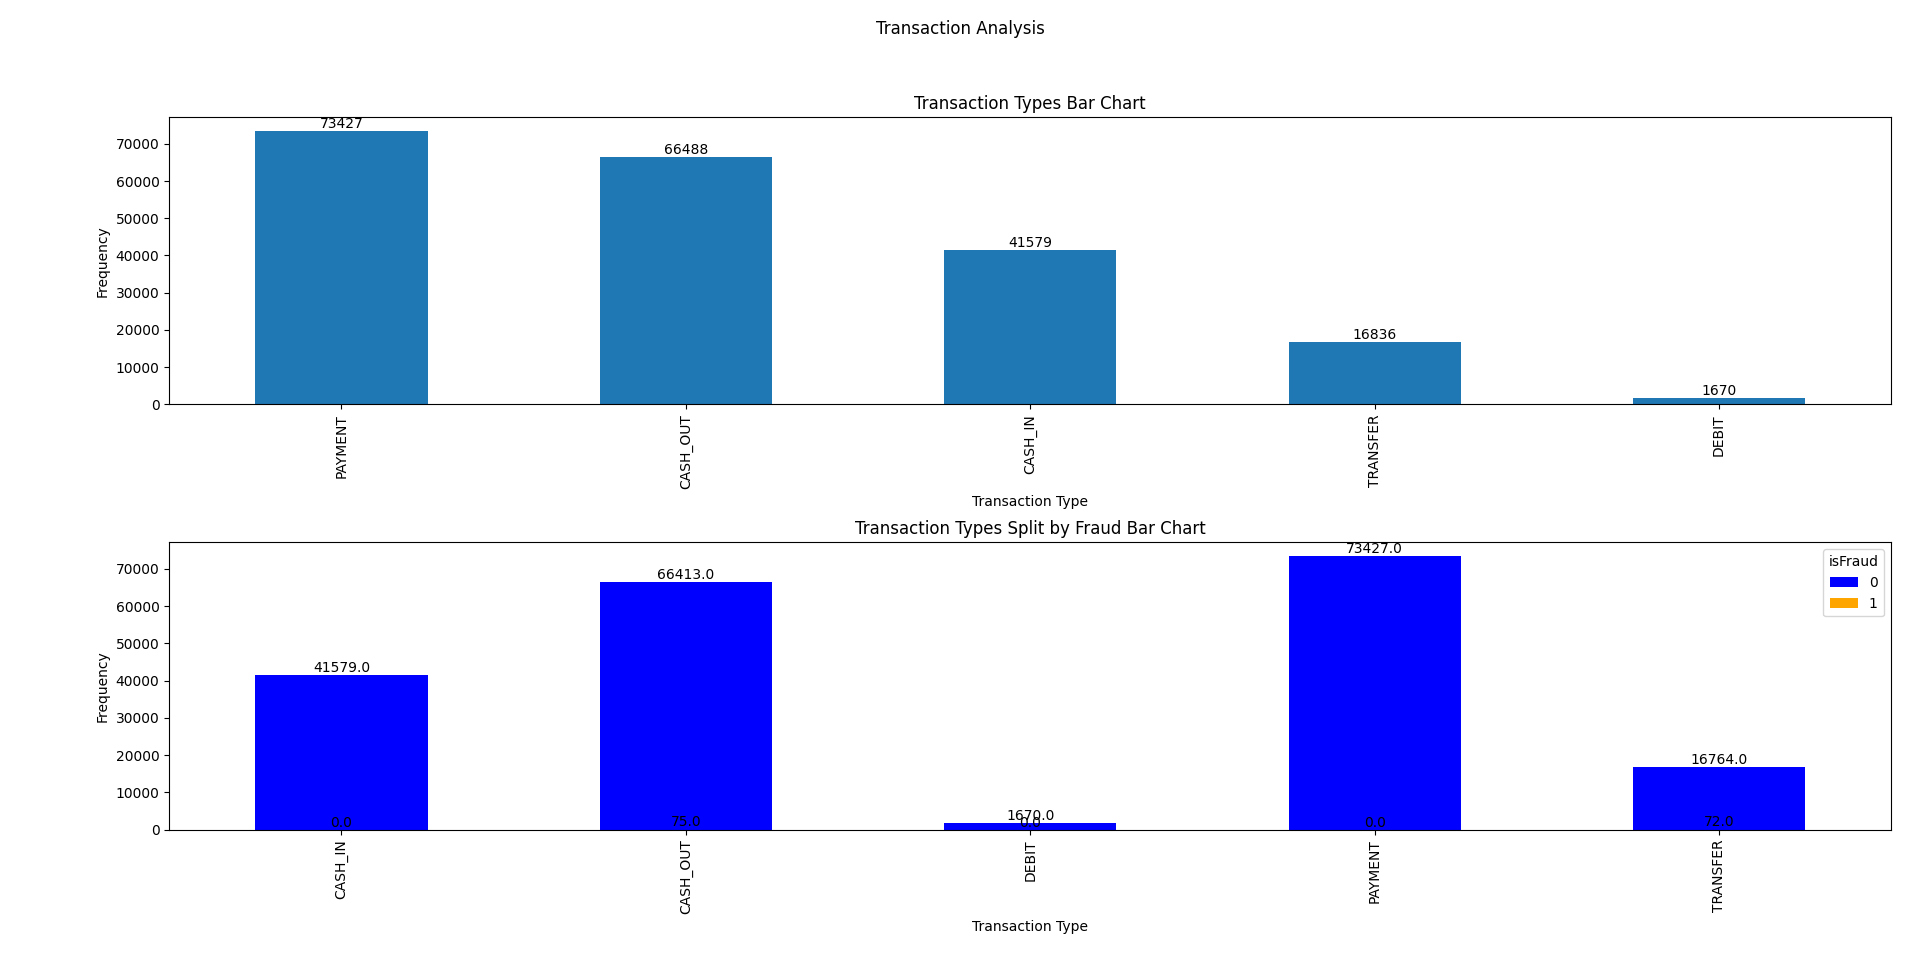
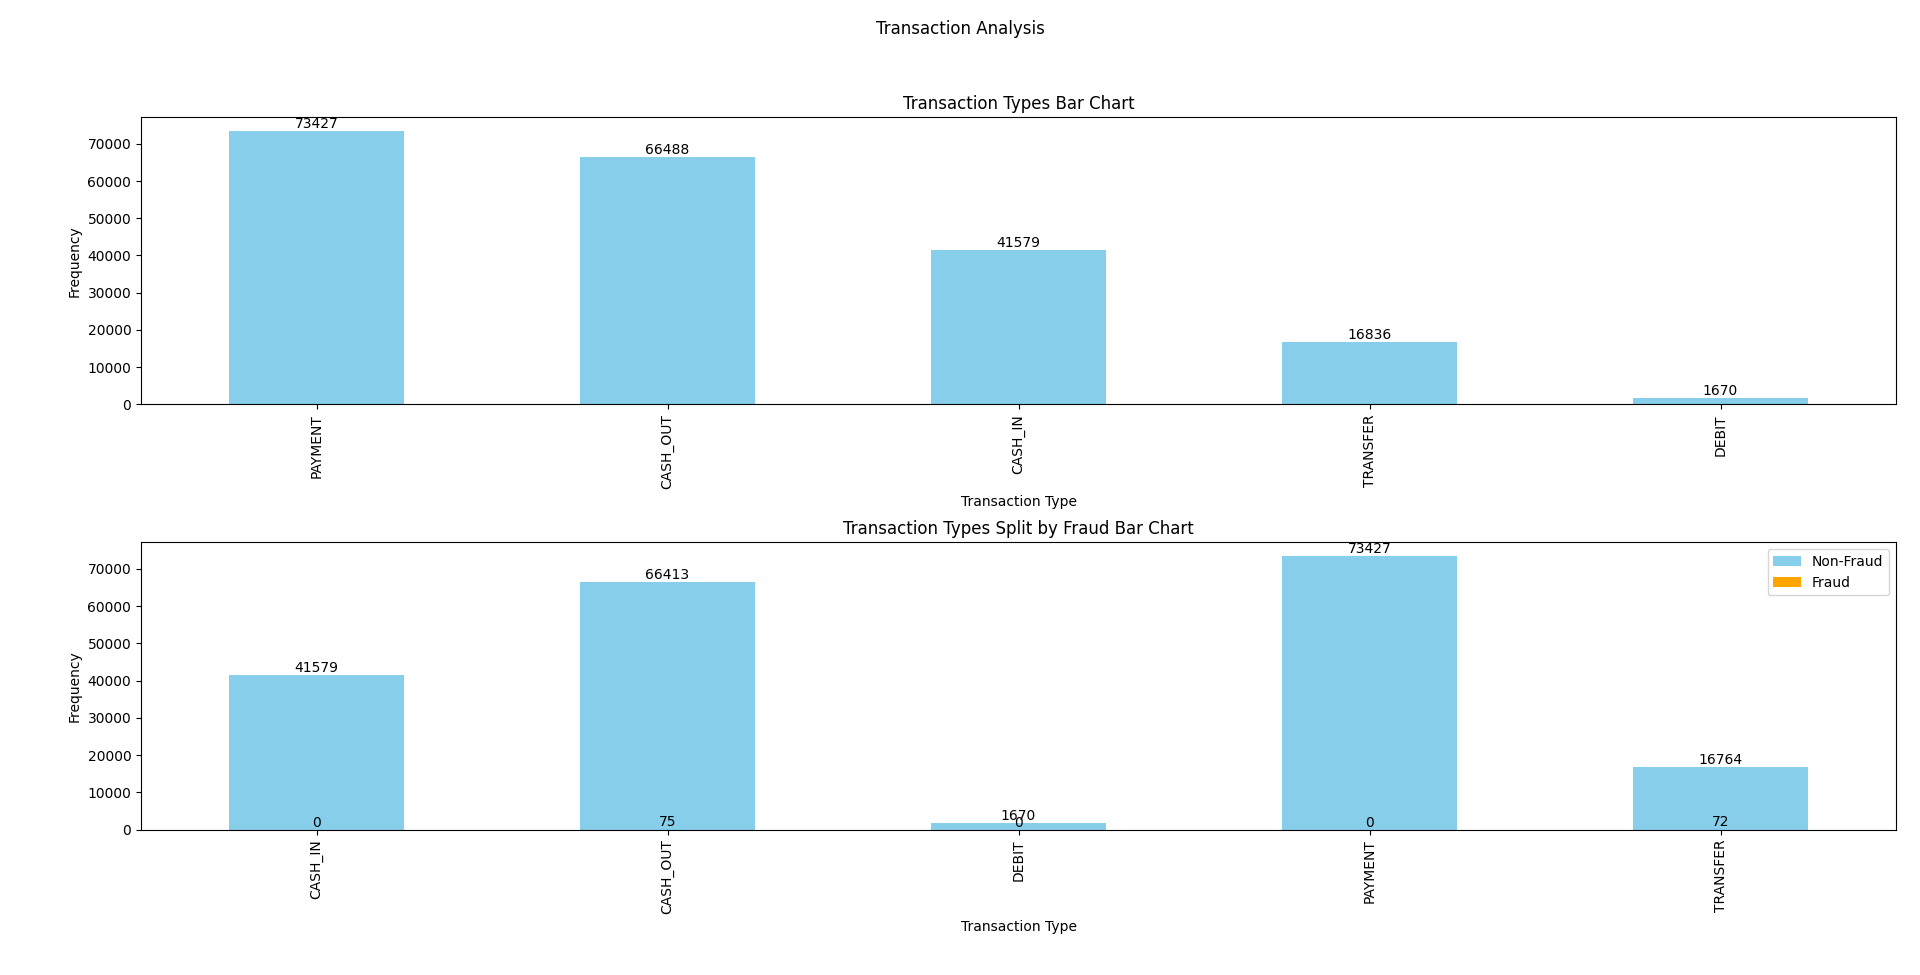
updated visualizations

diff --git a/task1.py b/task1.py
@@ -4,6 +4,7 @@ import matplotlib.pyplot as plt
 def exercise_0(file):
     df = pd.read_csv(file)
     print(df.head())
+    print("Columns:", df.columns)  # Debug print to show column names
     return df
 
 def exercise_1(df):
@@ -72,19 +73,23 @@ def visual_1(df):
         return df['type'].value_counts()
 
     def transaction_counts_split_by_fraud(df):
-        return df.groupby(['type', 'isFraud']).size().unstack().fillna(0)
+        if 'type' not in df.columns or 'isFraud' not in df.columns:
+            raise ValueError("Required columns are missing.")
+        counts = df.groupby(['type', 'isFraud']).size().unstack().fillna(0)
+        counts.columns = ['Non-Fraud', 'Fraud']
+        return counts
 
-    fig, axs = plt.subplots(2, figsize=(10, 10))
+    fig, axs = plt.subplots(2, figsize=(12, 10))
     
     # Plot the first bar chart: Transaction Types
-    transaction_counts(df).plot(ax=axs[0], kind='bar')
+    transaction_counts(df).plot(ax=axs[0], kind='bar', color='skyblue')
     axs[0].set_title('Transaction Types Bar Chart')
     axs[0].set_xlabel('Transaction Type')
     axs[0].set_ylabel('Frequency')
     
     # Plot the second bar chart: Transaction Types Split by Fraud
     transaction_split = transaction_counts_split_by_fraud(df)
-    transaction_split.plot(ax=axs[1], kind='bar', stacked=True, color=['blue', 'orange'])
+    transaction_split.plot(ax=axs[1], kind='bar', stacked=True, color=['skyblue', 'orange'])
     axs[1].set_title('Transaction Types Split by Fraud Bar Chart')
     axs[1].set_xlabel('Transaction Type')
     axs[1].set_ylabel('Frequency')
@@ -94,40 +99,54 @@ def visual_1(df):
     
     for ax in axs:
         for p in ax.patches:
-            ax.annotate(p.get_height(), (p.get_x() + p.get_width() / 2, p.get_height()), ha='center', va='bottom')
-    
+            height = p.get_height()
+            ax.annotate(f'{height:.0f}', (p.get_x() + p.get_width() / 2, height),
+                        ha='center', va='bottom')
+
     return ('The first chart displays the frequency of each transaction type. '
             'The second chart shows the breakdown of transaction types by fraud status, '
-            'with colors indicating non-fraud (blue) and fraud (orange) occurrences.')
+            'with colors indicating non-fraud (skyblue) and fraud (orange) occurrences.')
 
 def visual_2(df):
     def query(df):
-        return df[df['type'] == 'CASH_OUT'][['oldbalanceOrg', 'newbalanceDest']]
+        if 'type' not in df.columns or 'oldbalanceOrg' not in df.columns or 'newbalanceDest' not in df.columns:
+            raise ValueError("Required columns are missing.")
+        cash_out_transactions = df[df['type'] == 'CASH_OUT']
+        if cash_out_transactions.empty:
+            raise ValueError("No CASH_OUT transactions found.")
+        return cash_out_transactions[['oldbalanceOrg', 'newbalanceDest', 'isFraud']]
     
-    df_cash_out = query(df)
-    df_cash_out.plot.scatter(x='oldbalanceOrg', y='newbalanceDest')
-    plt.title('Origin vs. Destination Account Balance Delta for Cash Out Transactions')
-    plt.xlabel('Origin Account Balance Delta')
-    plt.ylabel('Destination Account Balance Delta')
-    plt.xlim(left=-1e3, right=1e3)
-    plt.ylim(bottom=-1e3, top=1e3)
+    fig, ax = plt.subplots(figsize=(12, 8))
+    scatter_data = query(df)
+    
+    # Plotting with different colors for fraud and non-fraud transactions
+    scatter_data[scatter_data['isFraud'] == 0].plot.scatter(x='oldbalanceOrg', y='newbalanceDest', ax=ax, color='blue', alpha=0.5, label='Non-Fraud', s=10)
+    scatter_data[scatter_data['isFraud'] == 1].plot.scatter(x='oldbalanceOrg', y='newbalanceDest', ax=ax, color='red', alpha=0.7, label='Fraud', s=50)
+    
+    ax.set_title('Origin vs. Destination Account Balance Delta for Cash Out Transactions')
+    ax.set_xlabel('Origin Account Balance Delta')
+    ax.set_ylabel('Destination Account Balance Delta')
+    ax.set_xlim(left=-1e4, right=1e4)
+    ax.set_ylim(bottom=-1e4, top=1e4)
+    ax.legend()
     
     return ('The scatter plot visualizes the relationship between the origin and destination account balance '
-            'delta for cash out transactions. This can help identify any patterns or anomalies in cash out transactions.')
+            'delta for cash out transactions, with distinct colors for fraud (red) and non-fraud (blue) transactions. '
+            'This helps in identifying patterns or anomalies.')
 
 def exercise_custom(df):
-    # Example Custom Analysis: Distribution of transaction amounts
     return df['amount'].describe()
 
 def visual_custom(df):
     def query(df):
         return df[['amount']]
 
+    fig, ax = plt.subplots(figsize=(12, 8))
     df_amounts = query(df)
-    df_amounts.plot.hist(bins=50, edgecolor='black')
-    plt.title('Distribution of Transaction Amounts')
-    plt.xlabel('Transaction Amount')
-    plt.ylabel('Frequency')
+    df_amounts.plot.hist(bins=50, edgecolor='black', ax=ax, color='teal')
+    ax.set_title('Distribution of Transaction Amounts')
+    ax.set_xlabel('Transaction Amount')
+    ax.set_ylabel('Frequency')
 
     return ('The histogram displays the distribution of transaction amounts. '
             'This visualization helps understand the spread and common ranges of transaction amounts in the dataset.')
